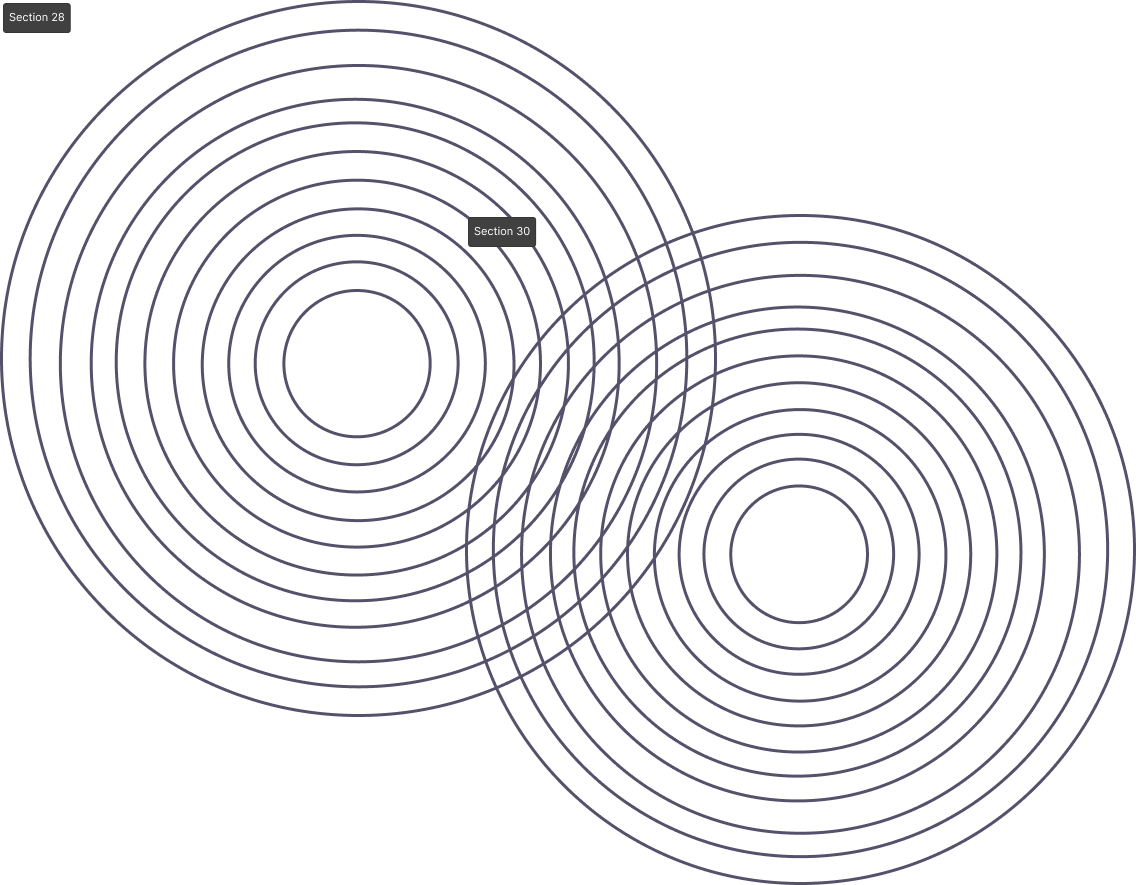
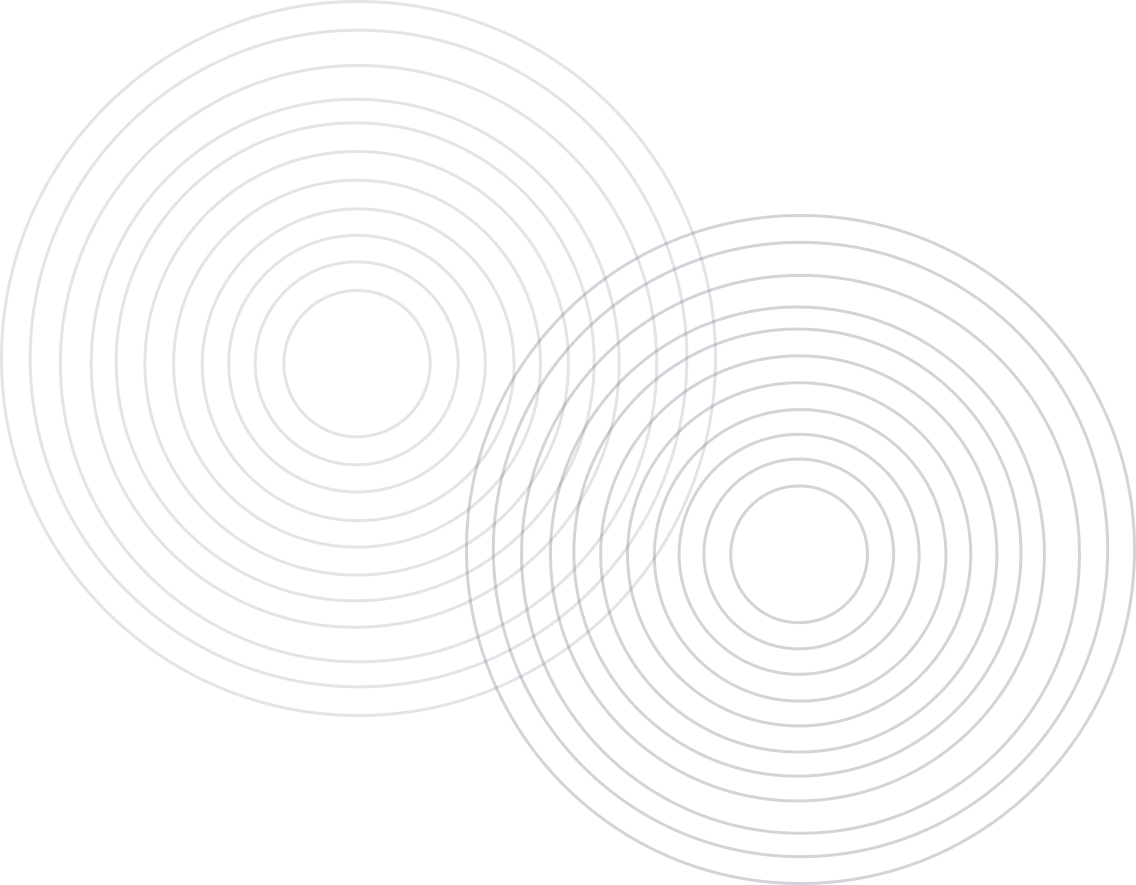
new

Changed region(s): [[0.0, 0.0, 1.0, 1.0], [0.0, 0.0, 0.0616, 0.061]]

diff --git a/src/App.jsx b/src/App.jsx
@@ -4,7 +4,7 @@ import Hero from "./components/Hero"
 import Joinus from "./components/Joinus"
 import Navbar from "./components/Navbar"
 import Marquee from "react-fast-marquee";
-import NftMarket from "./components/NftMarket"
+// import NftMarket from "./components/NftMarket"
 import Partners from "./components/Partners"
 import Roadmap from "./components/Roadmap"
 import Token from "./components/Token"
@@ -44,9 +44,9 @@ function App() {
   <Ecosystem/>
   
 </div>
-<div className=" py-8">
+{/* <div className=" py-8">
   <NftMarket/>
-</div>
+</div> */}
 <div className="py-8">
   <Wallet/>
 

diff --git a/src/components/Ecosystem.jsx b/src/components/Ecosystem.jsx
@@ -3,7 +3,7 @@ import React from "react";
 function Ecosystem() {
   return (
     <section className="pt-10 relative sm:mt-20" >
-      <img src="images/circle.png" alt="" className=" absolute hidden sm:block left-[10%] opacity-40" />
+      <img src="images/circle.png" alt="" className=" absolute hidden sm:block left-[10%] " />
 
       <div className="container-wrapper">
         <div className=" flex justify-between flex-col sm:flex-row ">
